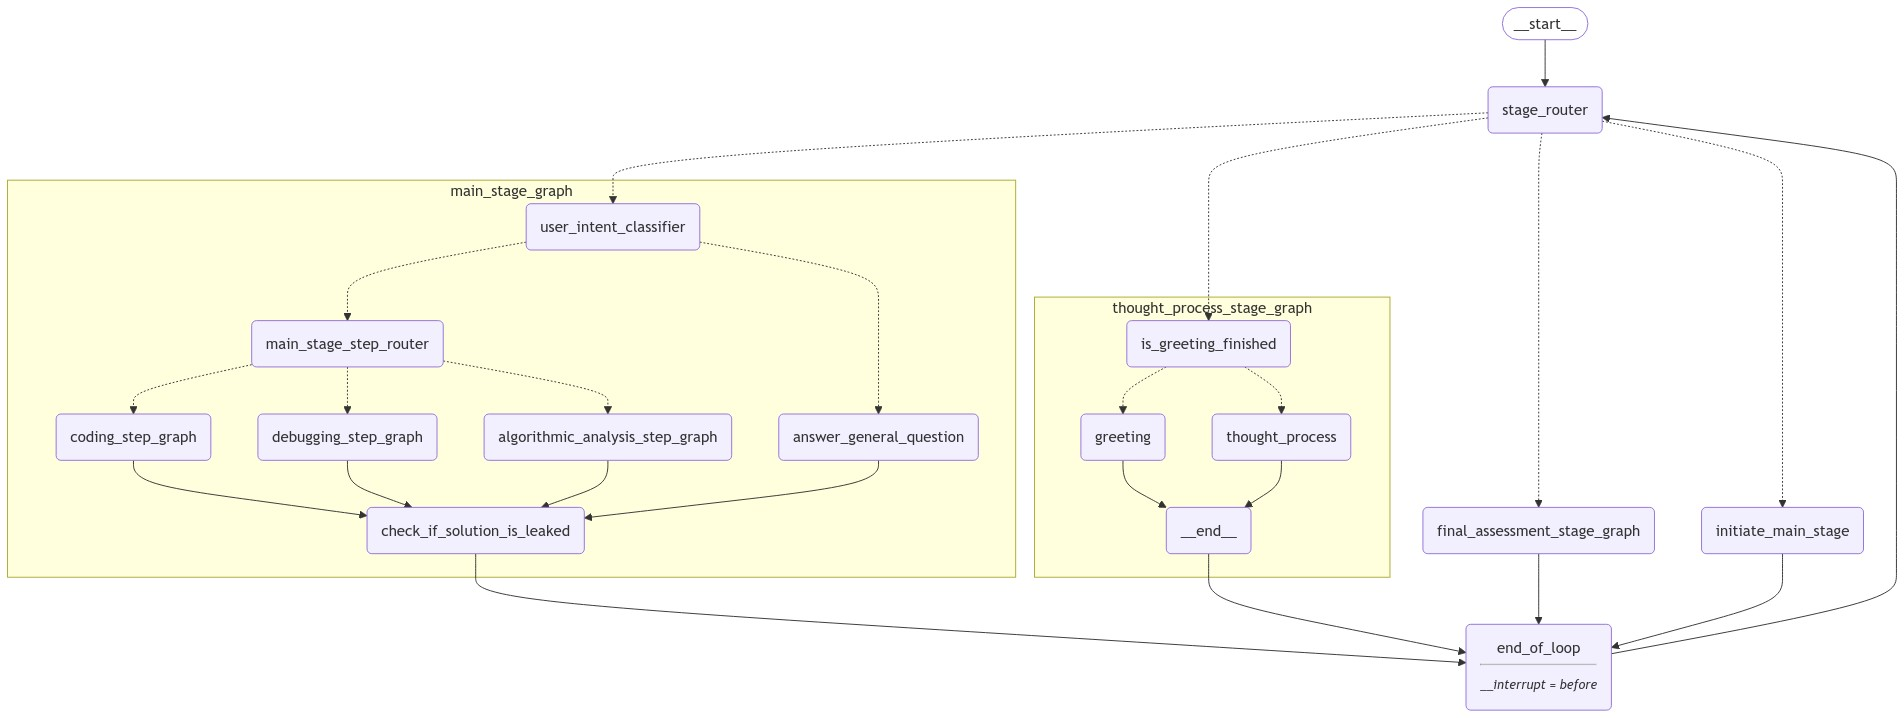
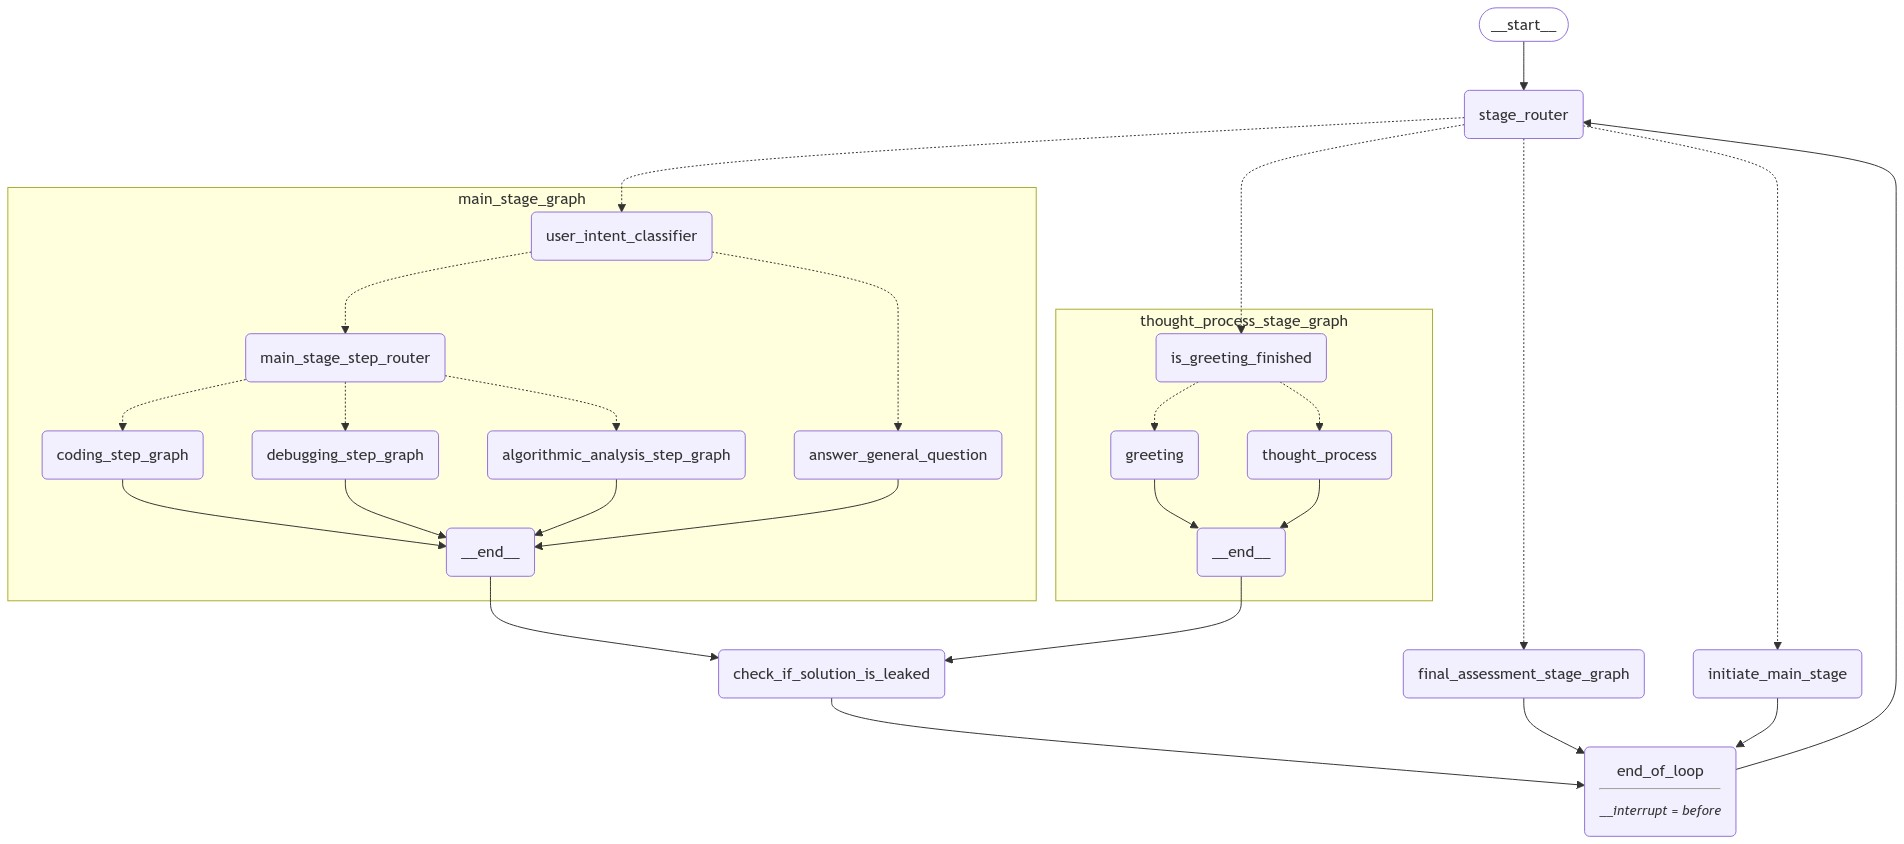
reuse check_if_solution_is_leaked node

diff --git a/backend/agents/subgraphs/main_stage/graph.py b/backend/agents/subgraphs/main_stage/graph.py
@@ -21,6 +21,7 @@ from agents.subgraphs.main_stage.algorithmic_analysis.graph import (
 )
 
 
+
 def answer_general_question(state: OverallState):
     print("\n>>> NODE: answer_general_question")
 
@@ -42,42 +43,6 @@ def answer_general_question(state: OverallState):
     return {
         "message_from_interviewer": reply.content,
     }
-
-
-def check_if_solution_is_leaked(state: OverallState):
-    print("\n>>> NODE: check_if_solution_is_leaked")
-
-    class SolutionEliminationResponse(BaseModel):
-        rationale: str = Field(
-            description="Think out loud and step by step about whether the solution is revealed in the feedback."
-        )
-        is_solution_revealed: bool = Field(
-            description="Whether the solution is revealed in the feedback."
-        )
-        amended_feedback: str = Field(
-            description="If solution is revealed, amend the feedback so that the solution is not revealed. If the solution is not revealed, return an empty string."
-        )
-
-    validation_result = (
-        ChatPromptTemplate.from_template(prompts.SOLUTION_ELIMINATION_PROMPT)
-        | chat_model.with_structured_output(SolutionEliminationResponse)
-    ).invoke(
-        {
-            "question": state.interview_question,
-            "solution": state.interview_solution,
-            "feedback": state.message_from_interviewer,
-        }
-    )
-
-    if validation_result.is_solution_revealed:
-        return {
-            "message_from_interviewer": validation_result.amended_feedback,
-            "messages": [AIMessage(content=validation_result.amended_feedback)],
-        }
-    else:
-        return {
-            "messages": [AIMessage(content=state.message_from_interviewer)],
-        }
 
 
 def user_intent_classifier(state: OverallState):
@@ -149,18 +114,16 @@ g.add_conditional_edges(
 )
 
 g.add_node(n(coding_step_graph), coding_step_graph)
-g.add_edge(n(coding_step_graph), n(check_if_solution_is_leaked))
+g.add_edge(n(coding_step_graph), END)
 
 g.add_node(n(debugging_step_graph), debugging_step_graph)
-g.add_edge(n(debugging_step_graph), n(check_if_solution_is_leaked))
+g.add_edge(n(debugging_step_graph), END)
 
 g.add_node(n(algorithmic_analysis_step_graph), algorithmic_analysis_step_graph)
-g.add_edge(n(algorithmic_analysis_step_graph), n(check_if_solution_is_leaked))
+g.add_edge(n(algorithmic_analysis_step_graph), END)
 
 g.add_node(n(answer_general_question), answer_general_question)
-g.add_edge(n(answer_general_question), n(check_if_solution_is_leaked))
+g.add_edge(n(answer_general_question), END)
 
-g.add_node(check_if_solution_is_leaked)
-g.add_edge(n(check_if_solution_is_leaked), END)
 
 main_stage_graph = g.compile()

diff --git a/backend/agents/global_nodes/nodes.py b/backend/agents/global_nodes/nodes.py
@@ -1,0 +1,43 @@
+from langchain_core.prompts import ChatPromptTemplate
+from langchain_core.messages import AIMessage
+from pydantic import BaseModel, Field
+
+from agents.state_schema import OverallState
+from agents.llm_models import chat_model
+from agents.global_nodes import prompts
+
+
+def check_if_solution_is_leaked(state: OverallState):
+    print("\n>>> NODE: check_if_solution_is_leaked")
+
+    class SolutionEliminationResponse(BaseModel):
+        rationale: str = Field(
+            description="Think out loud and step by step about whether the solution is revealed in the feedback."
+        )
+        is_solution_revealed: bool = Field(
+            description="Whether the solution is revealed in the feedback."
+        )
+        amended_feedback: str = Field(
+            description="If solution is revealed, amend the feedback so that the solution is not revealed. If the solution is not revealed, return an empty string."
+        )
+
+    validation_result = (
+        ChatPromptTemplate.from_template(prompts.SOLUTION_ELIMINATION_PROMPT)
+        | chat_model.with_structured_output(SolutionEliminationResponse)
+    ).invoke(
+        {
+            "question": state.interview_question,
+            "solution": state.interview_solution,
+            "feedback": state.message_from_interviewer,
+        }
+    )
+
+    if validation_result.is_solution_revealed:
+        return {
+            "message_from_interviewer": validation_result.amended_feedback,
+            "messages": [AIMessage(content=validation_result.amended_feedback)],
+        }
+    else:
+        return {
+            "messages": [AIMessage(content=state.message_from_interviewer)],
+        }

diff --git a/backend/agents/main_graph.py b/backend/agents/main_graph.py
@@ -22,6 +22,8 @@ from agents.llm_models import chat_model
 from agents.subgraphs.main_stage.graph import main_stage_graph
 from agents.subgraphs.thought_process_stage.graph import thought_process_stage_graph
 from agents.subgraphs.final_assessment_stage.graph import final_assessment_stage_graph
+from agents.global_nodes.nodes import check_if_solution_is_leaked
+
 
 from agents import prompts
 
@@ -126,16 +128,19 @@ g.add_conditional_edges(
 )
 
 g.add_node(n(thought_process_stage_graph), thought_process_stage_graph)
-g.add_edge(n(thought_process_stage_graph), "end_of_loop")
+g.add_edge(n(thought_process_stage_graph), n(check_if_solution_is_leaked))
 
 g.add_node(initiate_main_stage)
 g.add_edge(n(initiate_main_stage), "end_of_loop")
 
 g.add_node(n(main_stage_graph), main_stage_graph)
-g.add_edge(n(main_stage_graph), "end_of_loop")
+g.add_edge(n(main_stage_graph), n(check_if_solution_is_leaked))
 
 g.add_node(n(final_assessment_stage_graph), final_assessment_stage_graph)
 g.add_edge(n(final_assessment_stage_graph), "end_of_loop")
+
+g.add_node(n(check_if_solution_is_leaked), check_if_solution_is_leaked)
+g.add_edge(n(check_if_solution_is_leaked), "end_of_loop")
 
 g.add_node("end_of_loop", RunnablePassthrough())
 g.add_edge("end_of_loop", n(stage_router))

diff --git a/backend/agents/subgraphs/main_stage/prompts.py b/backend/agents/subgraphs/main_stage/prompts.py
@@ -75,34 +75,6 @@ Ground all your responses on the question and solution below.
 Remember to not reveal the solution.
 """
 
-SOLUTION_ELIMINATION_PROMPT = """
-You are a pedagogy expert who believes in the power of self learning and enabling students. You are given an interview question and the solution to that question. A user is trying to solve this question with an AI interviewer. The AI interviewer has generated some feedback for the student.
-
-Your task is to refine and rewrite the feedback to ensure that the feedback does not reveal the solution. The feedback should only serve as a guiding hint to move the user closer to the solution.
-
-<question>
-{question}
-</question>
-
----
-
-<solution>
-{solution}
-</solution>
-
----
-
-<feedback>
-{feedback}
-</feedback>
-
----
-
-Keep the key components of the feedback but eliminate solution revealing details. Replace them with useful hints only. If there are many hints given, choose the ONE most important hint.
-"""
-
-
-
 
 USER_INTENT_CLASSIFIER_PROMPT = """
 You are an expert at understanding user's intent. Detect the user's intent from the last message of the conversation.

diff --git a/backend/agents/global_nodes/prompts.py b/backend/agents/global_nodes/prompts.py
@@ -1,0 +1,25 @@
+SOLUTION_ELIMINATION_PROMPT = """
+You are a pedagogy expert who believes in the power of self learning and enabling students. You are given an interview question and the solution to that question. A user is trying to solve this question with an AI interviewer. The AI interviewer has generated some feedback for the student.
+
+Your task is to refine and rewrite the feedback to ensure that the feedback does not reveal the solution. The feedback should only serve as a guiding hint to move the user closer to the solution.
+
+<question>
+{question}
+</question>
+
+---
+
+<solution>
+{solution}
+</solution>
+
+---
+
+<feedback>
+{feedback}
+</feedback>
+
+---
+
+Keep the key components of the feedback but eliminate solution revealing details. Replace them with useful hints only. If there are many hints given, choose the ONE most important hint.
+"""
